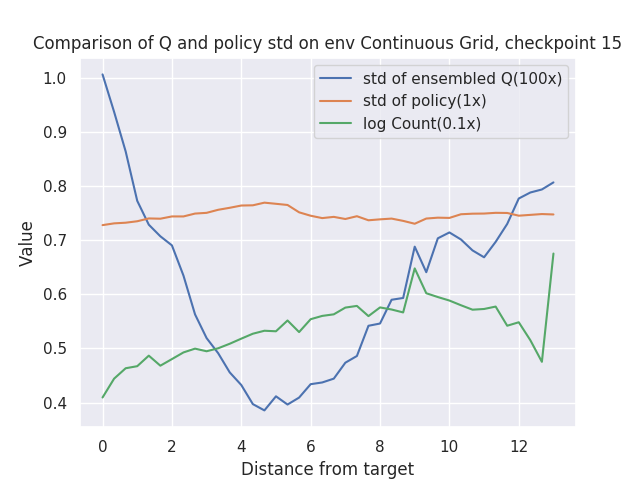
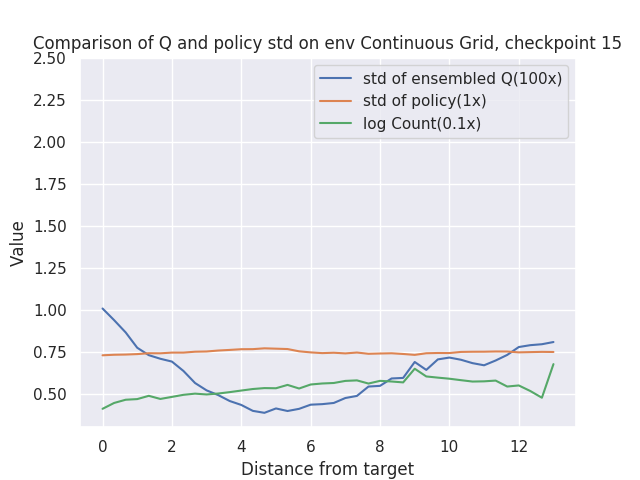
fix y range in plotting

diff --git a/mbpo_experiment/exploration_eval/parse.py b/mbpo_experiment/exploration_eval/parse.py
@@ -39,6 +39,7 @@ def plot(data, style = 'reacher'):
     grp_df_count.to_csv("count.csv")
 
     x = np.array(list(range(len(grp_df['q_std']))))/dist_scale
+    plt.ylim([0.3, 2.5])
     plt.plot(x, grp_df['q_std'] * this_scale["q_std"], label = "std of ensembled Q(100x)")
     plt.plot(x, grp_df['pi_std'] * this_scale["pi_std"], label = "std of policy(1x)")
     # plt.plot(x, grp_df['pi_std'], label = "std of policy")
@@ -52,7 +53,7 @@ def plot(data, style = 'reacher'):
 
 # EXP_NAME = "reacher"
 EXP_NAME = "grid"
-EXP_INDEX = "55"
+EXP_INDEX = "10"
 SAVE_PATH="%s-%s"%(EXP_NAME, EXP_INDEX)
 if not os.path.isdir(SAVE_PATH):
     os.mkdir(SAVE_PATH)
